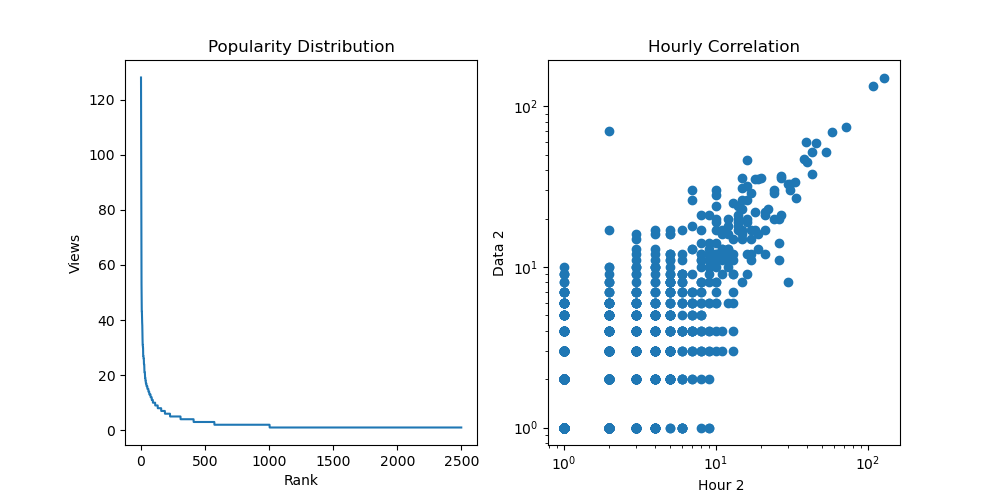
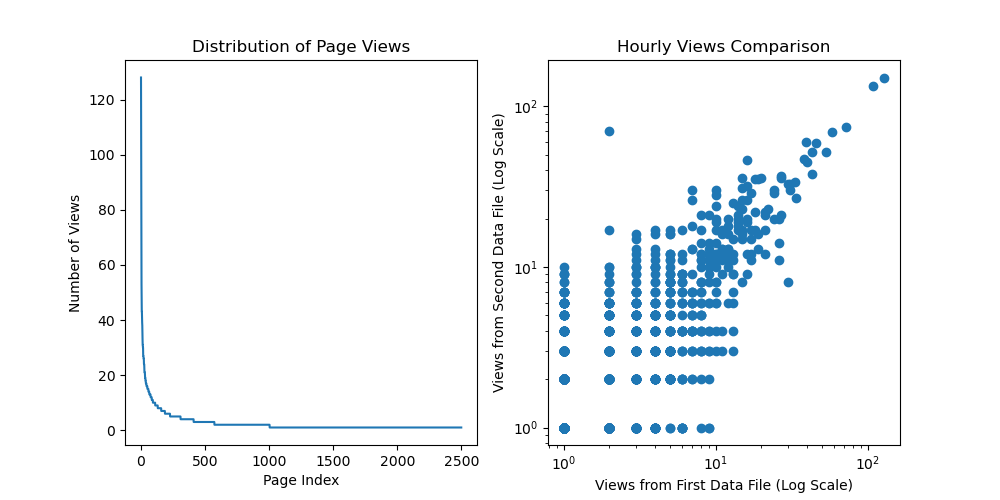
Add files via upload

diff --git a/create_plots.py b/create_plots.py
@@ -16,15 +16,15 @@ combined_data = pd.DataFrame({'Data 1': data1['views'], 'Data 2': data2['views']
 plt.figure(figsize=(10, 5)) 
 plt.subplot(1, 2, 1) 
 plt.plot(sorted_data['views'].values) 
-plt.title('Popularity Distribution')
-plt.ylabel('Views')
-plt.xlabel('Rank')
+plt.title('Distribution of Page Views')
+plt.ylabel('Number of Views')
+plt.xlabel('Page Index')
 plt.subplot(1, 2, 2) 
 # build plot 2
 plt.scatter(combined_data['Data 1'], combined_data['Data 2'])
-plt.title('Hourly Correlation')
-plt.xlabel('Hour 2 ')
-plt.ylabel('Data 2')
+plt.title('Hourly Views Comparison')
+plt.xlabel('Views from First Data File (Log Scale)')
+plt.ylabel('Views from Second Data File (Log Scale)')
 plt.xscale('log')
 plt.yscale('log')
 
